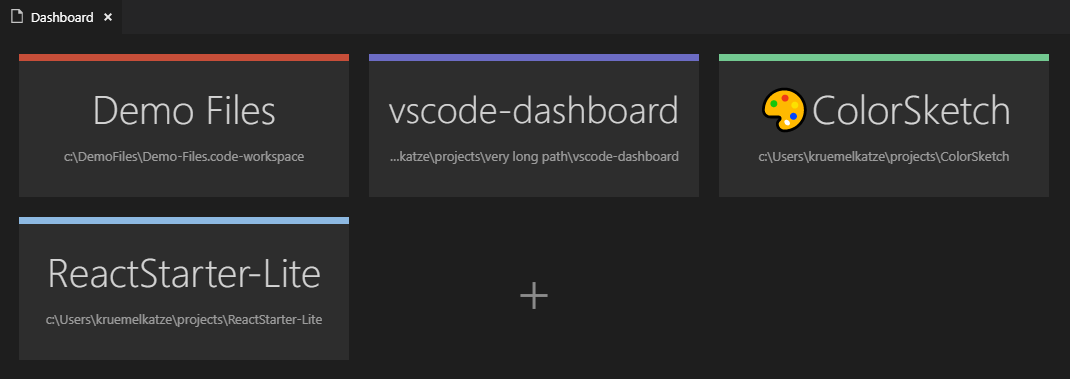
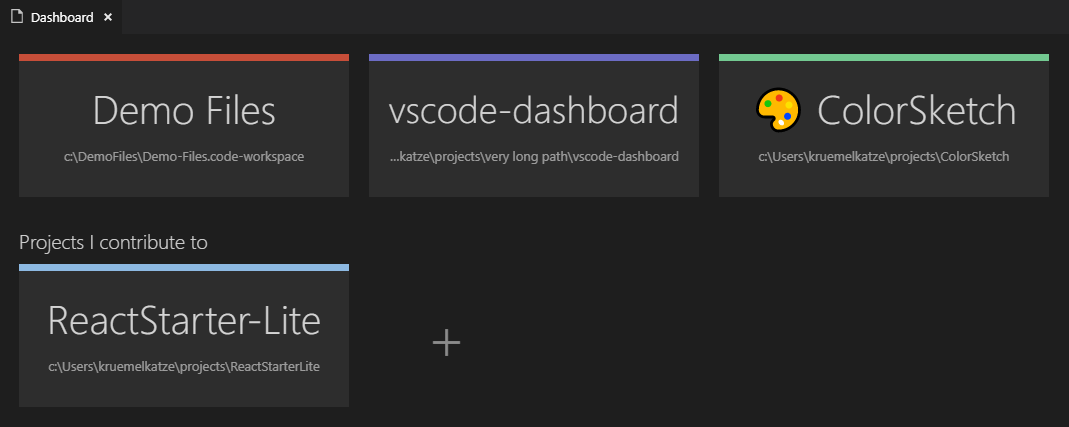
prepare release

diff --git a/README.md b/README.md
@@ -5,9 +5,11 @@
 ![](screenshot.png)
 
 ## Usage
-The dashboard is a dedicated webview inside vscode that is opened when the welcome page is shown. It can also be opened via command.
+The dashboard is a dedicated webview inside vscode that is opened when the welcome page is shown. It can also be opened via command. Clicking a project opens it in the current window, while strg+click opens it in a new window.
 
-Adding a workspace or file (project) can be done via command or button. First a project type (folder or file/multi-workspace) has to be selected. You are then prompted to provide a title, path and an optional color.
+Adding a workspace or file (project) can be done via command or button. First a project type (folder or file/multi-workspace) has to be selected. You are then prompted to provide a name, path and an optional color. 
+
+Projects can also be separated into **project groups**. When adding a new project, you are prompted to select an existing group or create a new one.
 
 Editing the project list currently has to be done manually by editing a JSON file.
 
